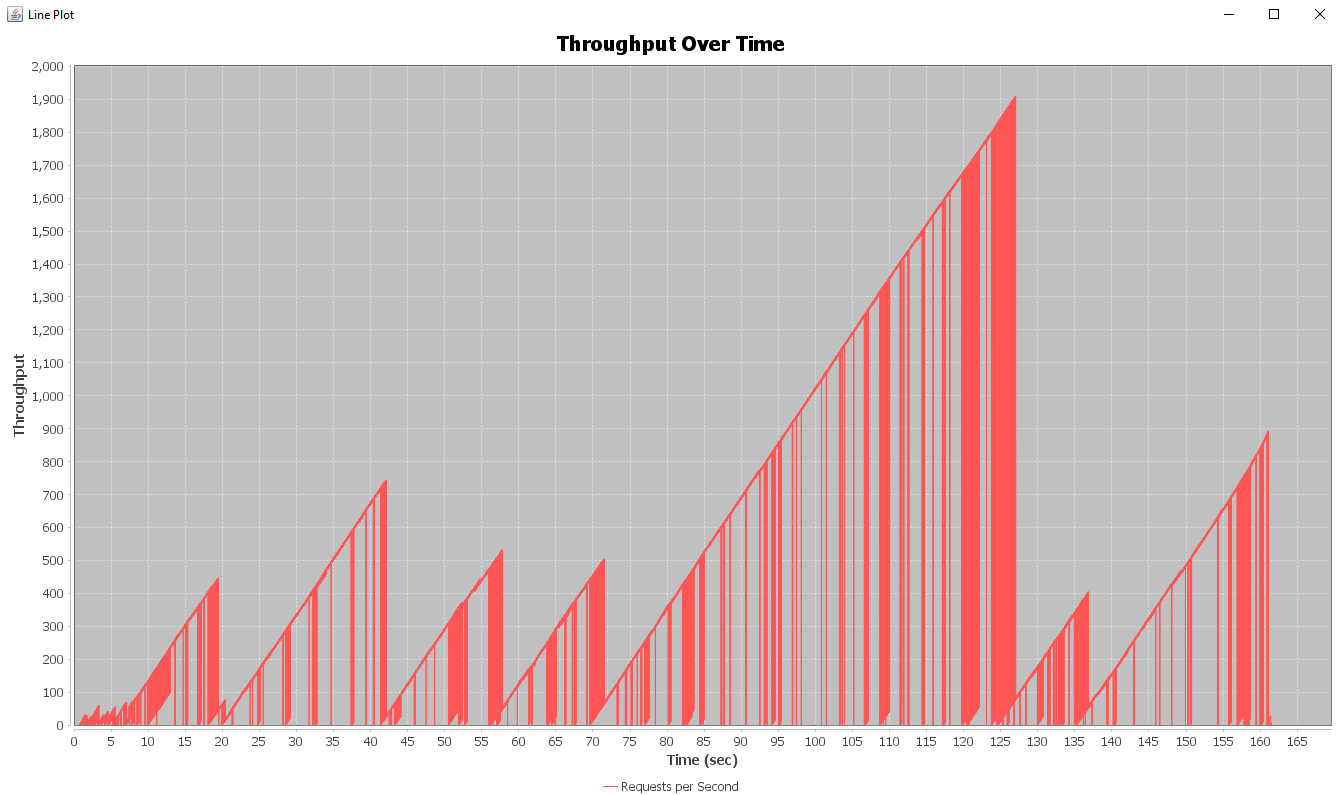
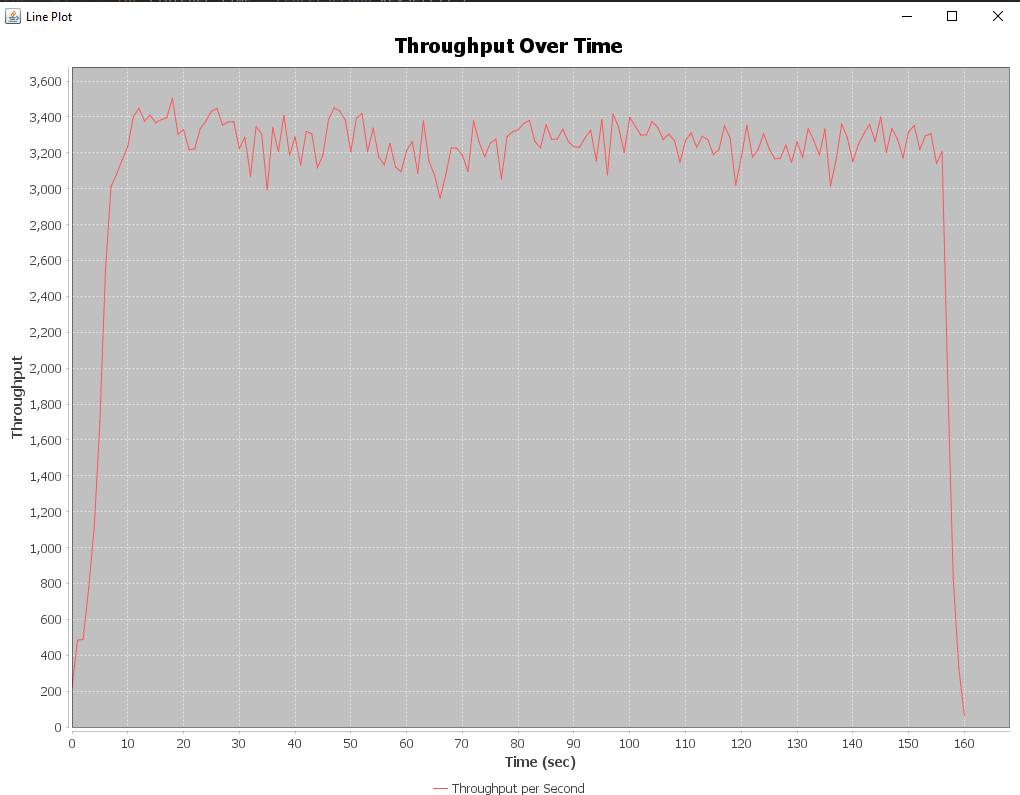
Fixed client code for graphing

diff --git a/a1/a1_client/src/main/java/part2/SwipeClient.java b/a1/a1_client/src/main/java/part2/SwipeClient.java
@@ -189,7 +189,7 @@ public class SwipeClient {
     public int numRows = 0;
     private CSVWriter csvWriter;
     private DescriptiveStatistics latencyStatistics = new DescriptiveStatistics();
-    private HashMap<Double, Integer> reqPerSecond = new HashMap<>();
+    private HashMap<Integer, Integer> reqPerSecond = new HashMap<>();
 
     public Record(String name) { this.name = name; }
 
@@ -240,9 +240,9 @@ public class SwipeClient {
           // Latency is 3rd column in csv
           Double latency = Double.valueOf(line[2]);
           latencyStatistics.addValue(latency);
-          // Seconds is first column in csv
-          Double sec = Double.valueOf(line[0]);
-          reqPerSecond.put((sec + latency), reqPerSecond.getOrDefault(sec, 0) + 1);
+          // Time is first column in csv (must be be converted from ms to sec then converted to int)
+          Integer sec = (int) (Double.valueOf(line[0]) * UC.MSEC_TO_SECONDS_CONV);
+          reqPerSecond.put(sec, reqPerSecond.getOrDefault(sec, 0) + 1);
         }
         // Close the file stream
         csvReader.close();
@@ -265,10 +265,10 @@ public class SwipeClient {
 
     public void plotRequestsCompletedOverTime() {
       // XYSeries for plotting
-      XYSeries xySeries = new XYSeries("Requests per Second");
-      // Add all the (x, y) coordinates, where x=time (seconds), y=numCompletedRequests (seconds)
-      for (Double time : reqPerSecond.keySet()) {
-        xySeries.add(time * UC.MSEC_TO_SECONDS_CONV, reqPerSecond.get(time));
+      XYSeries xySeries = new XYSeries("Throughput per Second");
+      // Add all the (x, y) coordinates, where x=time (seconds), y=throughput (req/sec)
+      for (Integer time : reqPerSecond.keySet()) {
+        xySeries.add(time, reqPerSecond.get(time));
       }
       // Turn into Dataset
       XYDataset dataset = new XYSeriesCollection(xySeries);
